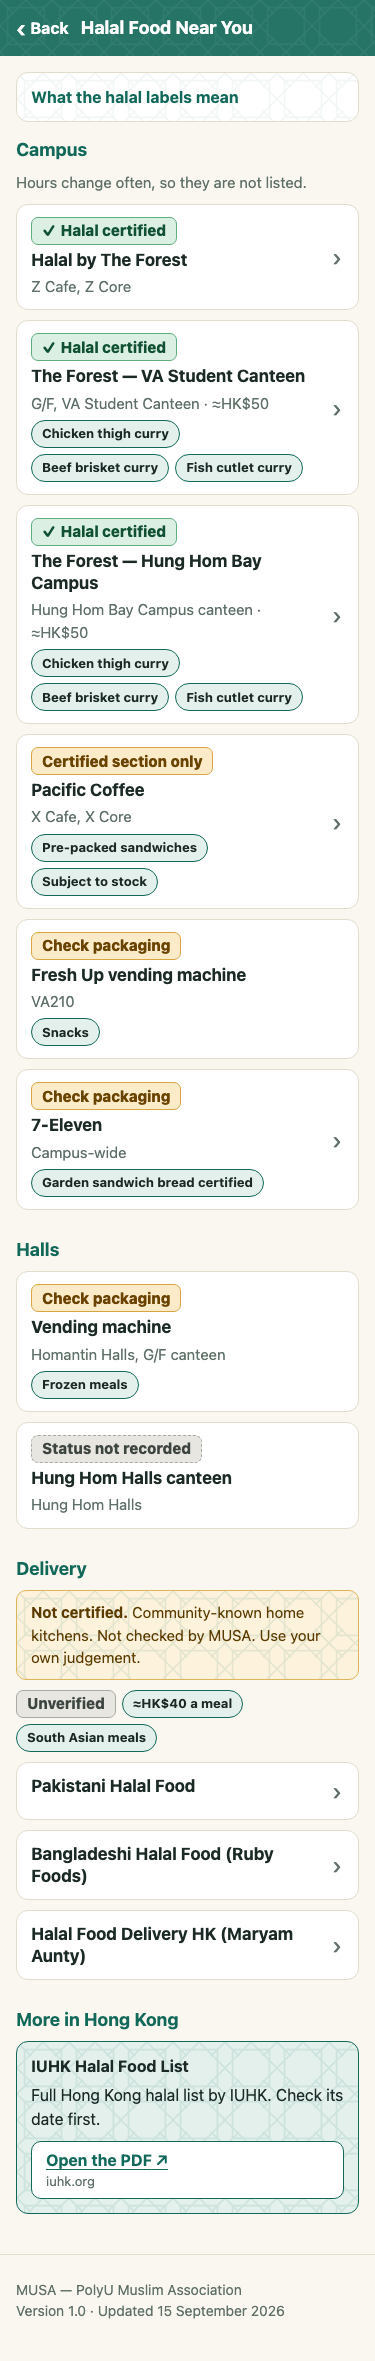
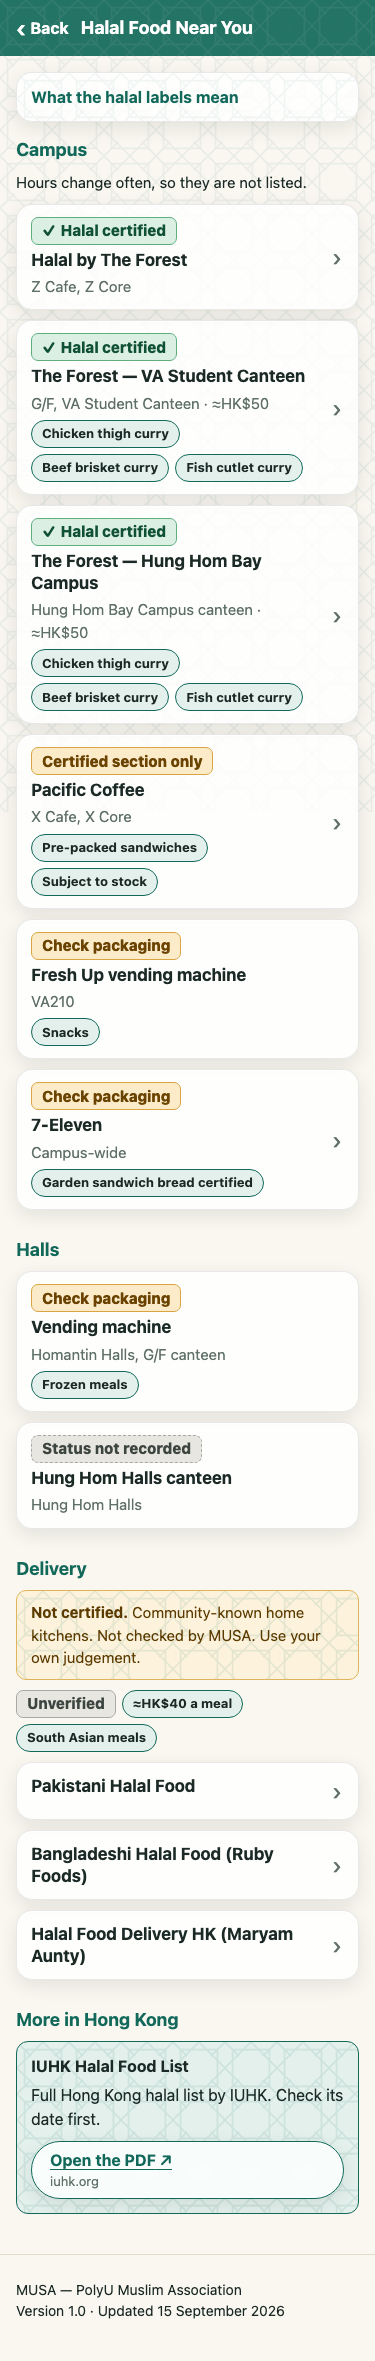
Glass panes and pill controls over the geometric pattern
The star pattern now sits behind the whole page, so the panes have something to
sit over. Cards, the labels card and the empty state became translucent panes
with a bright top edge, a soft underglow and a drop shadow; the search field and
every button became glass pills, frosted with the browser's own backdrop-filter
where it is supported. Text drawn straight on the patterned page uses ink rather
than the muted grey, which measured 4.43 there.

Contrast is measured through both layers now: a new test composites the pattern,
the pane fill and the text, and also fails if page-level text goes back to muted.
Still no library, no image files and no third-party requests.

diff --git a/src/styles.css b/src/styles.css
@@ -37,6 +37,13 @@
   --grey-ink: #3D4541;
   --grey-line: #A9AAA4;
 
+  --glass-fill: rgb(255 255 255 / 0.84);
+  --glass-border: rgb(27 42 38 / 0.10);
+  --glass-sheen: rgb(255 255 255 / 0.95);
+  --glass-underglow: rgb(255 255 255 / 0.30);
+  --glass-shadow: 0 6px 18px rgb(27 42 38 / 0.10);
+  --pattern-strength: 0.07;
+
   --radius: 12px;
   --gutter: 1rem;
   --appbar-height: 3.5rem;
@@ -73,6 +80,13 @@
     --grey-bg: #2A302D;
     --grey-ink: #CDD5D1;
     --grey-line: #5E6863;
+
+    --glass-fill: rgb(230 238 234 / 0.09);
+    --glass-border: rgb(255 255 255 / 0.14);
+    --glass-sheen: rgb(255 255 255 / 0.38);
+    --glass-underglow: rgb(255 255 255 / 0.06);
+    --glass-shadow: 0 6px 18px rgb(0 0 0 / 0.38);
+    --pattern-strength: 0.09;
   }
 }
 
@@ -216,6 +230,18 @@ input {
   outline: none;
 }
 
+body::before {
+  content: "";
+  position: fixed;
+  inset: 0;
+  z-index: -1;
+  background: var(--accent);
+  -webkit-mask: var(--pattern) 0 0 / var(--pattern-size) var(--pattern-size) repeat;
+  mask: var(--pattern) 0 0 / var(--pattern-size) var(--pattern-size) repeat;
+  opacity: var(--pattern-strength);
+  pointer-events: none;
+}
+
 main {
   padding-block: 1rem 2.5rem;
 }
@@ -228,7 +254,7 @@ main {
 /* ——— Home ——— */
 
 .home-subtitle {
-  color: var(--muted);
+  color: var(--ink);
 }
 
 .search {
@@ -249,10 +275,11 @@ main {
   flex: 1;
   min-width: 0;
   min-height: 48px;
-  padding: 0.5rem 0.875rem;
-  border: 2px solid var(--control-border);
-  border-radius: 10px;
-  background: var(--surface);
+  padding: 0.5rem 1.125rem;
+  border: 1px solid var(--control-border);
+  border-radius: 999px;
+  background: var(--glass-fill);
+  box-shadow: inset 0 1px 0 var(--glass-sheen), var(--glass-shadow);
   color: var(--ink);
   font-size: 1rem;
   appearance: none;
@@ -270,17 +297,18 @@ main {
 .clear-button {
   min-width: 48px;
   min-height: 48px;
-  padding-inline: 0.875rem;
-  border: 2px solid var(--control-border);
-  border-radius: 10px;
-  background: var(--surface);
+  padding-inline: 1.125rem;
+  border: 1px solid var(--control-border);
+  border-radius: 999px;
+  background: var(--glass-fill);
+  box-shadow: inset 0 1px 0 var(--glass-sheen), var(--glass-shadow);
   color: var(--ink);
   font-weight: 600;
   cursor: pointer;
 }
 
 .result-count {
-  color: var(--muted);
+  color: var(--ink);
   font-size: 0.875rem;
 }
 
@@ -300,9 +328,10 @@ main {
   gap: 0.125rem 0.875rem;
   min-height: 76px;
   padding: 0.875rem 1rem;
-  border: 1px solid var(--line);
-  border-radius: 14px;
-  background: var(--surface);
+  border: 1px solid var(--glass-border);
+  border-radius: 18px;
+  background: var(--glass-fill);
+  box-shadow: inset 0 1px 0 var(--glass-sheen), inset 0 -1px 0 var(--glass-underglow), var(--glass-shadow);
   color: var(--ink);
   text-decoration: none;
 }
@@ -353,8 +382,9 @@ main {
   line-height: 1.3;
 }
 
+/* On the patterned page rather than on a pane, so it uses ink for contrast. */
 .intro {
-  color: var(--muted);
+  color: var(--ink);
   font-size: 0.9375rem;
 }
 
@@ -376,9 +406,10 @@ main {
 /* ——— Rows ——— */
 
 .row {
-  border: 1px solid var(--line);
-  border-radius: var(--radius);
-  background: var(--surface);
+  border: 1px solid var(--glass-border);
+  border-radius: 16px;
+  background: var(--glass-fill);
+  box-shadow: inset 0 1px 0 var(--glass-sheen), inset 0 -1px 0 var(--glass-underglow), var(--glass-shadow);
   scroll-margin-top: calc(var(--appbar-height) + 0.75rem);
 }
 
@@ -556,10 +587,11 @@ main {
   align-items: center;
   gap: 0.625rem;
   min-height: 48px;
-  padding: 0.375rem 0.875rem;
-  border: 1.5px solid var(--accent);
-  border-radius: 10px;
-  background: var(--surface);
+  padding: 0.375rem 1.125rem;
+  border: 1px solid var(--accent);
+  border-radius: 999px;
+  background: var(--glass-fill);
+  box-shadow: inset 0 1px 0 var(--glass-sheen), inset 0 -1px 0 var(--glass-underglow), var(--glass-shadow);
   color: var(--accent);
   text-decoration: none;
 }
@@ -595,10 +627,11 @@ main {
 
 .copy-button {
   min-height: 48px;
-  padding: 0.375rem 0.875rem;
-  border: 1.5px solid var(--control-border);
-  border-radius: 10px;
-  background: var(--surface);
+  padding: 0.375rem 1.125rem;
+  border: 1px solid var(--control-border);
+  border-radius: 999px;
+  background: var(--glass-fill);
+  box-shadow: inset 0 1px 0 var(--glass-sheen), var(--glass-shadow);
   color: var(--ink);
   font-weight: 700;
   text-align: left;
@@ -660,9 +693,10 @@ main {
 }
 
 .legend {
-  border: 1px solid var(--line);
-  border-radius: var(--radius);
-  background: var(--surface);
+  border: 1px solid var(--glass-border);
+  border-radius: 16px;
+  background: var(--glass-fill);
+  box-shadow: inset 0 1px 0 var(--glass-sheen), var(--glass-shadow);
 }
 
 .legend > summary {
@@ -696,8 +730,10 @@ main {
 
 .empty-state {
   padding: 1.5rem 1rem;
-  border: 2px dashed var(--line);
-  border-radius: var(--radius);
+  border: 1px dashed var(--glass-border);
+  border-radius: 16px;
+  background: var(--glass-fill);
+  box-shadow: inset 0 1px 0 var(--glass-sheen), var(--glass-shadow);
   text-align: center;
 }
 
@@ -715,9 +751,10 @@ main {
 .button {
   min-height: 48px;
   margin-top: 1rem;
-  padding-inline: 1.25rem;
+  padding-inline: 1.5rem;
   border: 0;
-  border-radius: 10px;
+  border-radius: 999px;
+  box-shadow: inset 0 1px 0 rgb(255 255 255 / 0.25), var(--glass-shadow);
   background: var(--accent);
   color: var(--accent-ink);
   font-weight: 700;
@@ -727,7 +764,7 @@ main {
 .loading,
 .load-error {
   margin-top: 2rem;
-  color: var(--muted);
+  color: var(--ink);
 }
 
 .load-error {
@@ -740,7 +777,7 @@ main {
 .site-footer {
   padding-block: 1.5rem calc(2.5rem + env(safe-area-inset-bottom, 0px));
   border-top: 1px solid var(--line);
-  color: var(--muted);
+  color: var(--ink);
   font-size: 0.875rem;
 }
 
@@ -804,6 +841,16 @@ main {
       opacity: 0;
       transform: translateY(8px);
     }
+  }
+}
+
+@supports ((backdrop-filter: blur(1px)) or (-webkit-backdrop-filter: blur(1px))) {
+  .search-input,
+  .clear-button,
+  .entry-link,
+  .copy-button {
+    -webkit-backdrop-filter: saturate(180%) blur(12px);
+    backdrop-filter: saturate(180%) blur(12px);
   }
 }
 
